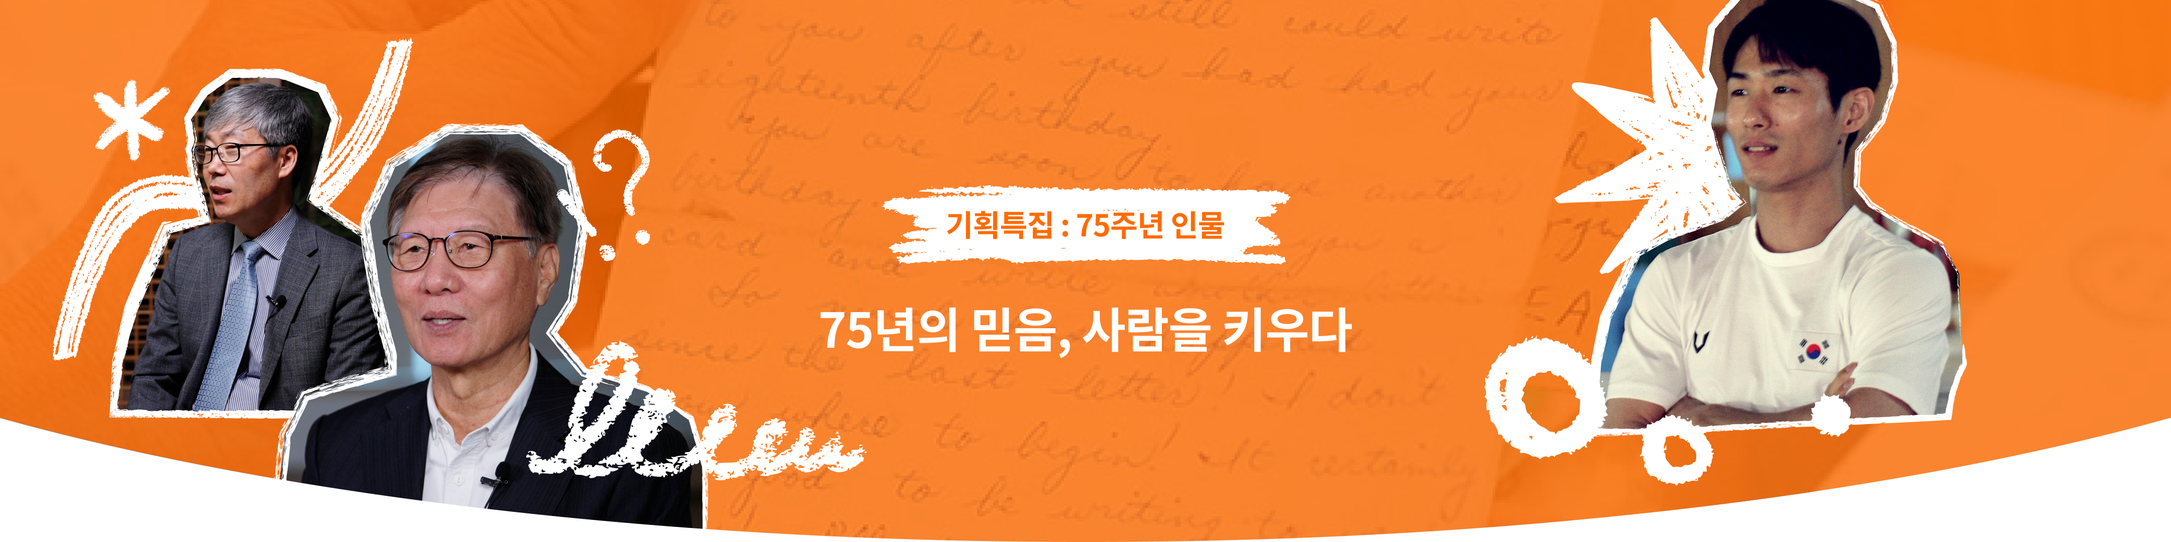
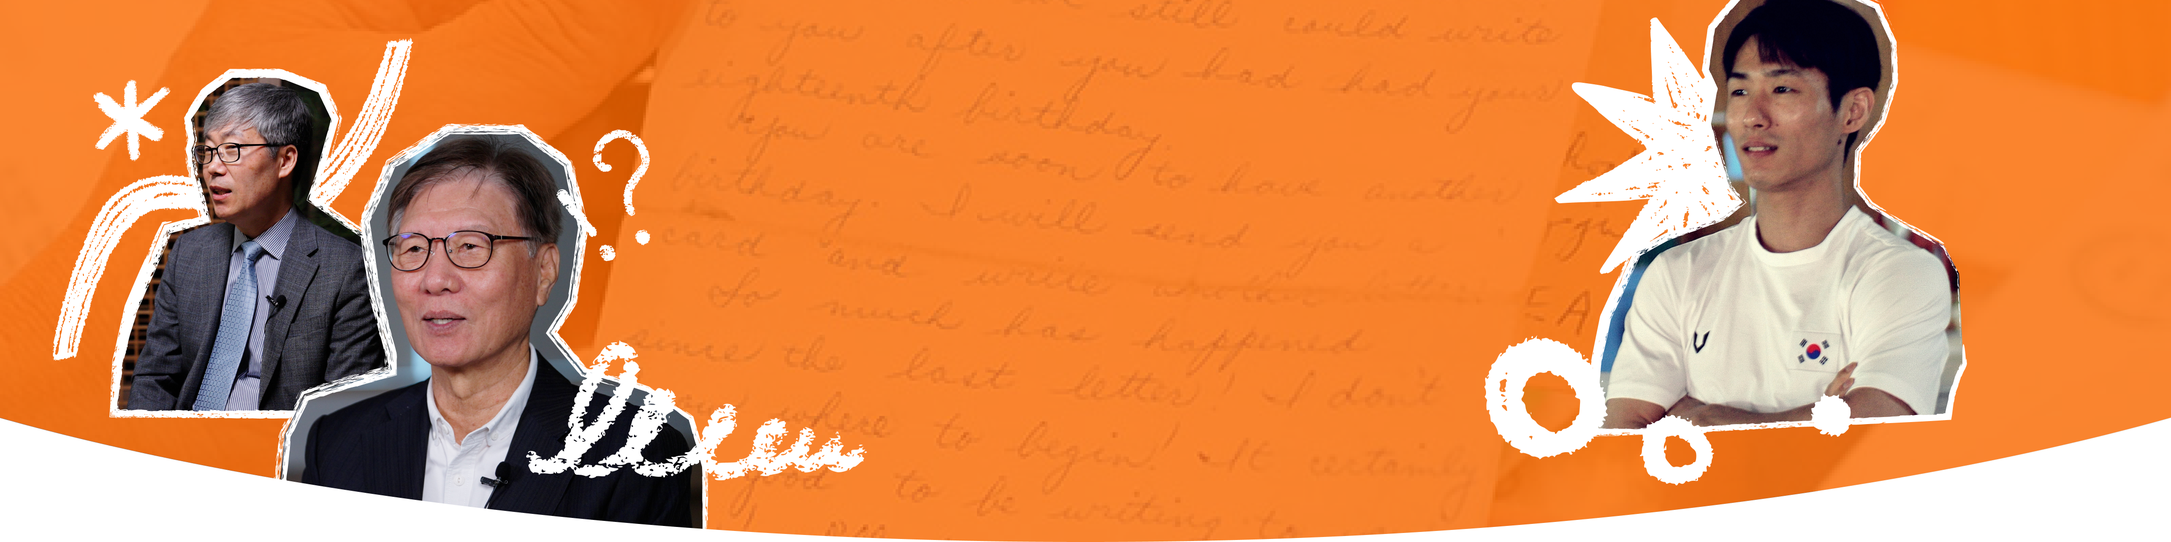
75주년 페이지 작업 추가

Changed region(s): [[0.4062, 0.3361, 0.5938, 0.4889], [0.375, 0.55, 0.625, 0.6722]]

diff --git a/static/webzine/character.html b/static/webzine/character.html
@@ -171,10 +171,10 @@
                 </picture>
                 <div class="title-wrapper">
                     <div class="titleTop">
-                        <img class="titleBg" src="images/specialStory/titleBg.png" alt="제목 배경">
+                        <img class="titleBgType1" src="images/character/titleBg.png" alt="제목 배경">
                         <h1 class="menu-title">기획특집 : 75주년 인물</h1>
                     </div>
-                    <h2 class="title">75년의 믿음, 사람을 키우다</h2>
+                    <h2 class="title">75년의 믿음, <br class="mob"/>사람을 키우다</h2>
                 </div>
             </div>         
 
@@ -195,40 +195,81 @@
                         <div class="section-sub tc">
                             <!-- 배경타이틀 -->
                             <div class="bgTitle mb-4">
-                                <img class="img" src="images/character/contentImg01.png" alt="자립준비청년 앙상블 M.O.A의 연주사진">
+                                <img class="img" src="images/character/contentImg01.png" alt="김충민 교장선생님 사진">
                                 <div class="point-box tl">
                                     보잘것없는 돌멩이,<br/> 아름다운 노래가 되기까지
-                                    <span class="black-text">: 김충민 교장선생님의 삶이 들려주는 믿음의 기적</span>
+                                    <span class="black-text">: 김충민 교장선생님의 <br class="mob"/>삶이 들려주는 믿음의 기적</span>
                                 </div>
                             </div>
 
                             <span class="description txtPoint">
                                 작은 손이 마이크를 잡고, 한 소년이 노래를 부르던 그날. 떨리는 목소리와 함께 울려 퍼진 멜로디는 단지 동요 한 곡이 아니었습니다. 그것은 한 아이의 삶이 달라지는 시작이었고, 아직 보잘것없는 돌멩이 같은 존재가 믿음 속에서 단단한 보석이 되어가는 여정의 첫걸음이었습니다. 지금, 김충민 교장선생님은 그 여정을 아이들에게 되돌려주는 사람으로 살아가고 있습니다
                             </span>
-                            <span class="description">
+                            <span class="description mt-4">
                                 여섯 남매의 막내로 태어나 백일 무렵 아버지를 여의고, 어머니와 함께 사회복지시설로 들어가야 했던 어린 시절.
                             </span>
+                            <!-- <div class="mt-4 mb-4 animate-on-scroll" data-animate="fadeIn">
+                                <img class="img" src="images/character/contentImg02.png" alt="여섯 남매의 가족사진">
+                            </div> -->
                             <div class="mt-4 mb-4 animate-on-scroll" data-animate="fadeIn">
-                                <img class="img" src="images/character/contentImg02.png" alt="자립준비청년 앙상블 M.O.A의 연주사진">
+                                <picture>
+                                    <source srcset="images/character/contentImg02mob.png" media="(max-width: 767px)">
+                                    <img class="img" src="images/character/contentImg02.png" alt="여섯 남매의 가족사진">
+                                </picture>
                             </div>
-
-
-
-                            <!-- 여기서부터 이어서 -->
-                            
-
-
-
-
-                            
-                            
-                            
+                            <span class="description">
+                                막막함과 두려움이 그림자처럼 따라다녔던 시절이었습니다. 하지만 그를 비춘 한 줄기 빛은 바로 ‘선명회 합창단’이었습니다. 월드비전이 여러 복지시설 아이들 대상으로 전국 오디션을 열었고, 김충민 교장선생님은 광주·전남·전북 지역에서 단 한 명으로 선발되었습니다. 여섯 살 꼬마가 부른 노래 ‘나비’ 한 곡이 그의 날개가 된 셈입니다.
+                            </span>
                             <div class="flex-bigMark mt-4">
                                 <img class="mark" src="images/specialStory/bigMarkL.png" alt="큰따옴표 아이콘">
-                                <div class="point-box-small">혼자가 아니었기에 가능한 변화, <br/>
-                                    ‘함께 피다’ 지금 시작합니다.
+                                <div class="description">엄마랑 떨어지는 게 무서워 울기도 했지만, 
+                                    형이 ‘그럼 내가 간다’고 하자 자존심이 상해 따라나섰죠.
                                 </div>
                                 <img class="mark" src="images/specialStory/bigMarkR.png" alt="큰따옴표 아이콘">
+                            </div>
+                            <div class="mt-4">
+                                <div class="flexBox">
+                                    <div>
+                                        <img class="flexBox-item" src="images/character/contentImg03-1.png" alt="흑백 합창단 활동사진">
+                                    </div>
+                                    <div>
+                                        <img class="flexBox-item" src="images/character/contentImg03-2.png" alt="컬러 합창단 활동사진">
+                                    </div>
+                                </div>
+                            </div>
+                            <span class="description mt-4">
+                                그렇게 시작된 합창단 생활은 단순한 노래를 부르는 것 이상의 의미였습니다. 함께 노래하고, 함께 살아가는 연대와 배려를 알게 되었습니다. 그리고 합창단 활동을 이어갈 수 있도록 도와준 미국의 한 후원 가정. 그분들이 보내주던 편지와 사진에는 말로 다 담을 수 없는 따뜻한 마음이 담겨 있었습니다.
+                            </span>
+                            <div class="flex-bigMark mt-4">
+                                <img class="mark" src="images/specialStory/bigMarkL.png" alt="큰따옴표 아이콘">
+                                <div class="description">
+                                    이름은 기억나지 않지만, 그분의 마음과 기도는 지금도 제 안에 살아 있습니다. 
+                                </div>
+                                <img class="mark" src="images/specialStory/bigMarkR.png" alt="큰따옴표 아이콘">
+                            </div>
+                            <span class="description mt-4 tc">
+                                아무 조건 없이 소년 김충민을 믿고 응원해준 후원자로부터 받은 신뢰와 사랑의 유산은 이제 아이들에게로 이어지고 있습니다.
+                            </span>
+                            <div class="mt-4 mb-4">
+                                <img class="img" src="images/character/contentImg04.png" alt="현재 교장선생님의 대화모습">
+                            </div>
+                            <span class="description mt-4 mb-4">
+                                경기도의 한 초등학교 교장으로서 그는 말합니다. “어떤 아이든 자신만의 꽃을 피울 수 있다는 믿음으로 바라봅니다.” 봄에 피는 꽃, 가을에 피는 꽃처럼 꽃이 피는 시기와 열매가 익는 시간이 모두 다름을 그는 누구보다 잘 압니다.
+                            </span>
+                            <div class="bgTxt-wrap">
+                                <picture>
+                                    <source srcset="images/character/contentImg06mob2.png" media="(max-width: 480px)">
+                                    <source srcset="images/character/contentImg06mob.png" media="(max-width: 600px)">
+                                    <img class="img" src="images/character/contentImg06.png" alt="말풍선 그림">
+                                </picture>
+                                <span class="bunpil bgTxt">
+                                    김충민 교장선생님의 삶은 말합니다. 
+                                    진심 어린 응원 하나가, 누군가의 세상을 얼마나 넓게 
+                                    바꿀 수 있는지를. <br class="web"/>그리고 지금 이 순간에도, 
+                                    보잘것없다고 느끼는 아이들에게 
+                                    작은 날개가 되어주는 이야기를 조용히, <br class="web"/>
+                                    그러나 단단히 써 내려가고 있습니다.
+                                </span>
                             </div>
                         </div>
                         
@@ -237,40 +278,83 @@
 
                         <!-- 2 -->
                         <div class="section-sub tc">
-                            <div class="point-box mb-4">00000</div>
-                            <span class="description">
-                                1부 ‘자립라디오’는 후원자들이 보내온 사연으로 꾸며졌습니다.
-                                <br/><br/>
-                                청중석에 있던 서호걸 후원자의 어린 시절 사연이 소개되었습니다. 후원자는 어린 시절 부모님을 잃고 사촌 집에 머물던 시절, 사촌 형이 건넨 “온실 속보다 비바람 속 들에서 핀 국화가 더 향기롭다. 환경을 탓하지 말고 어디서든 최선을 다해라. 그렇게 하면 너는 잘될 거야”라는 말이 평생의 버팀목이 되었다는 후원자의 고백은 많은 이들의 마음을 적셨습니다. 
-                                <br/><br/>
-                                그는 현장에서 직접 자립준비청년들에게 “자립준비청년 선배로 먼저 살아보니, 열심히 살다 보면 꼭 도움이 오는 순간이 있습니다. 그러니 절대 포기하지 마세요. 힘든 시간이 지나면 어느새 길이 열릴 거예요”라고 따뜻한 격려의 말을 전했습니다.
+                            <!-- 배경타이틀 -->
+                            <div class="bgTitle mb-4">
+                                <img class="img" src="images/character/contentImg07.png" alt="김충민 교장선생님 사진">
+                                <div class="point-box tl">
+                                    보잘것없는 돌멩이,<br/> 아름다운 노래가 되기까지
+                                    <span class="black-text">: 김충민 교장선생님의 <br class="mob"/>삶이 들려주는 믿음의 기적</span>
+                                </div>
+                            </div>
+
+                            <span class="description txtPoint">
+                                작은 손이 마이크를 잡고, 한 소년이 노래를 부르던 그날. 떨리는 목소리와 함께 울려 퍼진 멜로디는 단지 동요 한 곡이 아니었습니다. 그것은 한 아이의 삶이 달라지는 시작이었고, 아직 보잘것없는 돌멩이 같은 존재가 믿음 속에서 단단한 보석이 되어가는 여정의 첫걸음이었습니다. 지금, 김충민 교장선생님은 그 여정을 아이들에게 되돌려주는 사람으로 살아가고 있습니다
                             </span>
-                            <div class="mt-4 mb-4">
+                            <span class="description mt-4">
+                                여섯 남매의 막내로 태어나 백일 무렵 아버지를 여의고, 어머니와 함께 사회복지시설로 들어가야 했던 어린 시절.
+                            </span>
+                            <!-- <div class="mt-4 mb-4 animate-on-scroll" data-animate="fadeIn">
+                                <img class="img" src="images/character/contentImg02.png" alt="여섯 남매의 가족사진">
+                            </div> -->
+                            <div class="mt-4 mb-4 animate-on-scroll" data-animate="fadeIn">
                                 <picture>
                                     <source srcset="images/character/contentImg02mob.png" media="(max-width: 767px)">
-                                    <img class="img" src="images/character/contentImg02.png" alt="격려의 말을 전하는 청중 모습">
+                                    <img class="img" src="images/character/contentImg02.png" alt="여섯 남매의 가족사진">
                                 </picture>
                             </div>
                             <span class="description">
-                                또 다른 후원자는 이렇게 전했습니다. “사람은 누구나 인생에서 한 번쯤 자립합니다. 경제적 자립뿐만 아니라 스스로 의사결정을 해야 하는 그때가 자립의 순간입니다. 어떤 결정을 하든 여러분 자신을 믿고 나아가세요. 여러분의 자립을 진심으로 응원합니다.”
-                                <br/><br/>
-                                후원자들의 진심은 자립준비청년들의 어깨를 토닥여주었습니다.
+                                막막함과 두려움이 그림자처럼 따라다녔던 시절이었습니다. 하지만 그를 비춘 한 줄기 빛은 바로 ‘선명회 합창단’이었습니다. 월드비전이 여러 복지시설 아이들 대상으로 전국 오디션을 열었고, 김충민 교장선생님은 광주·전남·전북 지역에서 단 한 명으로 선발되었습니다. 여섯 살 꼬마가 부른 노래 ‘나비’ 한 곡이 그의 날개가 된 셈입니다.
                             </span>
-                            <div class="mt-4 mb-4">
+                            <div class="flex-bigMark mt-4">
+                                <img class="mark" src="images/specialStory/bigMarkL.png" alt="큰따옴표 아이콘">
+                                <div class="description">엄마랑 떨어지는 게 무서워 울기도 했지만, 
+                                    형이 ‘그럼 내가 간다’고 하자 자존심이 상해 따라나섰죠.
+                                </div>
+                                <img class="mark" src="images/specialStory/bigMarkR.png" alt="큰따옴표 아이콘">
+                            </div>
+                            <div class="mt-4">
                                 <div class="flexBox">
                                     <div>
-                                        <img class="flexBox-item" src="images/character/contentImg02-1.png" alt="바이올린 연주하는 모습">
+                                        <img class="flexBox-item" src="images/character/contentImg03-1.png" alt="흑백 합창단 활동사진">
                                     </div>
                                     <div>
-                                        <img class="flexBox-item" src="images/character/contentImg02-2.png" alt="첼로 연주하는 모습">
+                                        <img class="flexBox-item" src="images/character/contentImg03-2.png" alt="컬러 합창단 활동사진">
                                     </div>
                                 </div>
                             </div>
-                            <span class="description">
-                                1부 마지막은 M.O.A 앙상블 나동화 단원의 인사와 연주로 이어졌습니다. “음악은 우리의 언어이고, 응원의 박수는 우리가 혼자가 아님을 알게 해주었습니다. 후원자의 관심과 사랑은 우리가 꿈을 꿀 수 있는 토양이 되었어요”라고 말했습니다. 이어 연주된 ‘You Raise Me Up’은 말보다 더 큰 감동으로 현장을 가득 채웠습니다.
-                            </span>   
-                            <div class="mt-4">
-                                <img class="img" src="images/character/contentImg02-3.png" alt="M.O.A 앙상블 나동화 단원의 인사 모습">  
+                            <span class="description mt-4">
+                                그렇게 시작된 합창단 생활은 단순한 노래를 부르는 것 이상의 의미였습니다. 함께 노래하고, 함께 살아가는 연대와 배려를 알게 되었습니다. 그리고 합창단 활동을 이어갈 수 있도록 도와준 미국의 한 후원 가정. 그분들이 보내주던 편지와 사진에는 말로 다 담을 수 없는 따뜻한 마음이 담겨 있었습니다.
+                            </span>
+                            <div class="flex-bigMark mt-4">
+                                <img class="mark" src="images/specialStory/bigMarkL.png" alt="큰따옴표 아이콘">
+                                <div class="description">
+                                    이름은 기억나지 않지만, 그분의 마음과 기도는 지금도 제 안에 살아 있습니다. 
+                                </div>
+                                <img class="mark" src="images/specialStory/bigMarkR.png" alt="큰따옴표 아이콘">
+                            </div>
+                            <span class="description mt-4 tc">
+                                아무 조건 없이 소년 김충민을 믿고 응원해준 후원자로부터 받은 신뢰와 사랑의 유산은 이제 아이들에게로 이어지고 있습니다.
+                            </span>
+                            <div class="mt-4 mb-4">
+                                <img class="img" src="images/character/contentImg04.png" alt="현재 교장선생님의 대화모습">
+                            </div>
+                            <span class="description mt-4 mb-4">
+                                경기도의 한 초등학교 교장으로서 그는 말합니다. “어떤 아이든 자신만의 꽃을 피울 수 있다는 믿음으로 바라봅니다.” 봄에 피는 꽃, 가을에 피는 꽃처럼 꽃이 피는 시기와 열매가 익는 시간이 모두 다름을 그는 누구보다 잘 압니다.
+                            </span>
+                            <div class="bgTxt-wrap">
+                                <picture>
+                                    <source srcset="images/character/contentImg06mob2.png" media="(max-width: 480px)">
+                                    <source srcset="images/character/contentImg06mob.png" media="(max-width: 600px)">
+                                    <img class="img" src="images/character/contentImg06.png" alt="말풍선 그림">
+                                </picture>
+                                <span class="bunpil bgTxt">
+                                    김충민 교장선생님의 삶은 말합니다. 
+                                    진심 어린 응원 하나가, 누군가의 세상을 얼마나 넓게 
+                                    바꿀 수 있는지를. <br class="web"/>그리고 지금 이 순간에도, 
+                                    보잘것없다고 느끼는 아이들에게 
+                                    작은 날개가 되어주는 이야기를 조용히, <br class="web"/>
+                                    그러나 단단히 써 내려가고 있습니다.
+                                </span>
                             </div>
                         </div>
 
@@ -279,23 +363,83 @@
 
                         <!-- 3 -->
                         <div class="section-sub tc">
-                            <div class="point-box mb-4">00000</div>
-                            <span class="description">
-                                행사의 마지막, 모두가 손에 든 꽃을 들고 자리에 앉아 단체 사진을 촬영하며 마무리되었습니다. 서로 다른 위치에서 이 여정을 함께해온 후원자, 자립준비청년 그리고 곁에서 묵묵히 걸어준 이들이 한자리에 모인 순간이었습니다. 그들이 손에 쥔 꽃은 완성된 자립이 아니라, 이제 막 피어나기 시작한 가능성이었습니다.
+                            <!-- 배경타이틀 -->
+                            <div class="bgTitle mb-4">
+                                <img class="img" src="images/character/contentImg01.png" alt="김충민 교장선생님 사진">
+                                <div class="point-box tl">
+                                    보잘것없는 돌멩이,<br/> 아름다운 노래가 되기까지
+                                    <span class="black-text">: 김충민 교장선생님의 <br class="mob"/>삶이 들려주는 믿음의 기적</span>
+                                </div>
+                            </div>
+
+                            <span class="description txtPoint">
+                                작은 손이 마이크를 잡고, 한 소년이 노래를 부르던 그날. 떨리는 목소리와 함께 울려 퍼진 멜로디는 단지 동요 한 곡이 아니었습니다. 그것은 한 아이의 삶이 달라지는 시작이었고, 아직 보잘것없는 돌멩이 같은 존재가 믿음 속에서 단단한 보석이 되어가는 여정의 첫걸음이었습니다. 지금, 김충민 교장선생님은 그 여정을 아이들에게 되돌려주는 사람으로 살아가고 있습니다
                             </span>
-                            <div class="mt-4 mb-4">
-                                <img class="img" src="images/character/contentImg05.png" alt="토크 콘서트 <함께 피다>에서 참가자들을 위한 꽃 사진">
+                            <span class="description mt-4">
+                                여섯 남매의 막내로 태어나 백일 무렵 아버지를 여의고, 어머니와 함께 사회복지시설로 들어가야 했던 어린 시절.
+                            </span>
+                            <!-- <div class="mt-4 mb-4 animate-on-scroll" data-animate="fadeIn">
+                                <img class="img" src="images/character/contentImg02.png" alt="여섯 남매의 가족사진">
+                            </div> -->
+                            <div class="mt-4 mb-4 animate-on-scroll" data-animate="fadeIn">
+                                <picture>
+                                    <source srcset="images/character/contentImg02mob.png" media="(max-width: 767px)">
+                                    <img class="img" src="images/character/contentImg02.png" alt="여섯 남매의 가족사진">
+                                </picture>
                             </div>
                             <span class="description">
-                                월드비전 자립준비청년 지원 성과 공유 토크 콘서트 <함께 피다>는 단지 한 번의 행사가 아니라, 우리 모두가 자립의 여정에서 ‘서로의 곁에 있다’는 사실을 마음 깊이 되새긴 시간이었습니다.
+                                막막함과 두려움이 그림자처럼 따라다녔던 시절이었습니다. 하지만 그를 비춘 한 줄기 빛은 바로 ‘선명회 합창단’이었습니다. 월드비전이 여러 복지시설 아이들 대상으로 전국 오디션을 열었고, 김충민 교장선생님은 광주·전남·전북 지역에서 단 한 명으로 선발되었습니다. 여섯 살 꼬마가 부른 노래 ‘나비’ 한 곡이 그의 날개가 된 셈입니다.
                             </span>
-                            <div class="flex-bigMark mt-4 animate-on-scroll" data-animate="fadeIn">
+                            <div class="flex-bigMark mt-4">
                                 <img class="mark" src="images/specialStory/bigMarkL.png" alt="큰따옴표 아이콘">
-                                <div class="point-box-small">자립은 나 혼자 살아내는 일이 아니라, <br/>
-                                    곁에 있는 누군가와 함께 걸어가는 일입니다. <br/>그리고 자립준비청년 곁에 월드비전과 후원자가 <br/>
-                                    함께 든든히 있다면, 언젠가 반드시 활짝 피어날 것입니다.
-                                </div> 
+                                <div class="description">엄마랑 떨어지는 게 무서워 울기도 했지만, 
+                                    형이 ‘그럼 내가 간다’고 하자 자존심이 상해 따라나섰죠.
+                                </div>
                                 <img class="mark" src="images/specialStory/bigMarkR.png" alt="큰따옴표 아이콘">
+                            </div>
+                            <div class="mt-4">
+                                <div class="flexBox">
+                                    <div>
+                                        <img class="flexBox-item" src="images/character/contentImg03-1.png" alt="흑백 합창단 활동사진">
+                                    </div>
+                                    <div>
+                                        <img class="flexBox-item" src="images/character/contentImg03-2.png" alt="컬러 합창단 활동사진">
+                                    </div>
+                                </div>
+                            </div>
+                            <span class="description mt-4">
+                                그렇게 시작된 합창단 생활은 단순한 노래를 부르는 것 이상의 의미였습니다. 함께 노래하고, 함께 살아가는 연대와 배려를 알게 되었습니다. 그리고 합창단 활동을 이어갈 수 있도록 도와준 미국의 한 후원 가정. 그분들이 보내주던 편지와 사진에는 말로 다 담을 수 없는 따뜻한 마음이 담겨 있었습니다.
+                            </span>
+                            <div class="flex-bigMark mt-4">
+                                <img class="mark" src="images/specialStory/bigMarkL.png" alt="큰따옴표 아이콘">
+                                <div class="description">
+                                    이름은 기억나지 않지만, 그분의 마음과 기도는 지금도 제 안에 살아 있습니다. 
+                                </div>
+                                <img class="mark" src="images/specialStory/bigMarkR.png" alt="큰따옴표 아이콘">
+                            </div>
+                            <span class="description mt-4 tc">
+                                아무 조건 없이 소년 김충민을 믿고 응원해준 후원자로부터 받은 신뢰와 사랑의 유산은 이제 아이들에게로 이어지고 있습니다.
+                            </span>
+                            <div class="mt-4 mb-4">
+                                <img class="img" src="images/character/contentImg04.png" alt="현재 교장선생님의 대화모습">
+                            </div>
+                            <span class="description mt-4 mb-4">
+                                경기도의 한 초등학교 교장으로서 그는 말합니다. “어떤 아이든 자신만의 꽃을 피울 수 있다는 믿음으로 바라봅니다.” 봄에 피는 꽃, 가을에 피는 꽃처럼 꽃이 피는 시기와 열매가 익는 시간이 모두 다름을 그는 누구보다 잘 압니다.
+                            </span>
+                            <div class="bgTxt-wrap">
+                                <picture>
+                                    <source srcset="images/character/contentImg06mob2.png" media="(max-width: 480px)">
+                                    <source srcset="images/character/contentImg06mob.png" media="(max-width: 600px)">
+                                    <img class="img" src="images/character/contentImg06.png" alt="말풍선 그림">
+                                </picture>
+                                <span class="bunpil bgTxt">
+                                    김충민 교장선생님의 삶은 말합니다. 
+                                    진심 어린 응원 하나가, 누군가의 세상을 얼마나 넓게 
+                                    바꿀 수 있는지를. <br class="web"/>그리고 지금 이 순간에도, 
+                                    보잘것없다고 느끼는 아이들에게 
+                                    작은 날개가 되어주는 이야기를 조용히, <br class="web"/>
+                                    그러나 단단히 써 내려가고 있습니다.
+                                </span>
                             </div>
                         </div>
 

diff --git a/static/webzine/css/main.css b/static/webzine/css/main.css
@@ -973,6 +973,12 @@
 .subType1 .description.tc {
     text-align: center;
 }
+.subType1 .content  .description.mt-4 {
+    margin-top: 40px;
+}
+.subType1 .content  .description.mb-4 {
+    margin-bottom: 40px;
+}
 
 @media (max-width: 1280px) {
     .content .description {
@@ -1025,7 +1031,26 @@ left: 0;
 #character .point-box .black-text {
     display: block;
 }
-
+.subType1 .title-wrapper .titleBgType1 {
+    max-width: clamp(220px, 17vw, 310px);
+    width: 100%;
+    margin: auto;
+}
+.subType1 .bgTxt-wrap {
+    position: relative;
+    width: 100%;
+    width: auto;
+    margin: 0 auto;
+}
+.subType1 .bunpil.bgTxt {
+    position: absolute;
+    top: 50%;
+    left: 50%;
+    transform: translate(-50%, -50%);
+    text-align: center;
+    font-size: clamp(15px, 2vw, 24px);
+    width: 80%;
+}
 
 
 
@@ -1035,11 +1060,13 @@ left: 0;
 .subType1 .title-wrapper .subT {
     font-size: 18px;
 }
-#siteStory .flexBox {  
+.sub-content-section .flexBox {  
     display: flex;
     justify-content: space-between;
     gap: clamp(10px, 2vw, 20px);
 }
+
+
 @media (max-width: 900px) {
     /* 현장이야기 */
     .subType1 .title-wrapper .title .mob ,
@@ -1061,7 +1088,10 @@ left: 0;
     .txtPoint .caption {
         font-size: 12px;
     }
-    /*  */
+    /* 기획특집:75주년인물 */
+    .subType1 .title-wrapper .titleBgType1 {
+        max-width: clamp(180px, 29vw, 220px);
+    }
 
 
     /* 현장이야기 */
